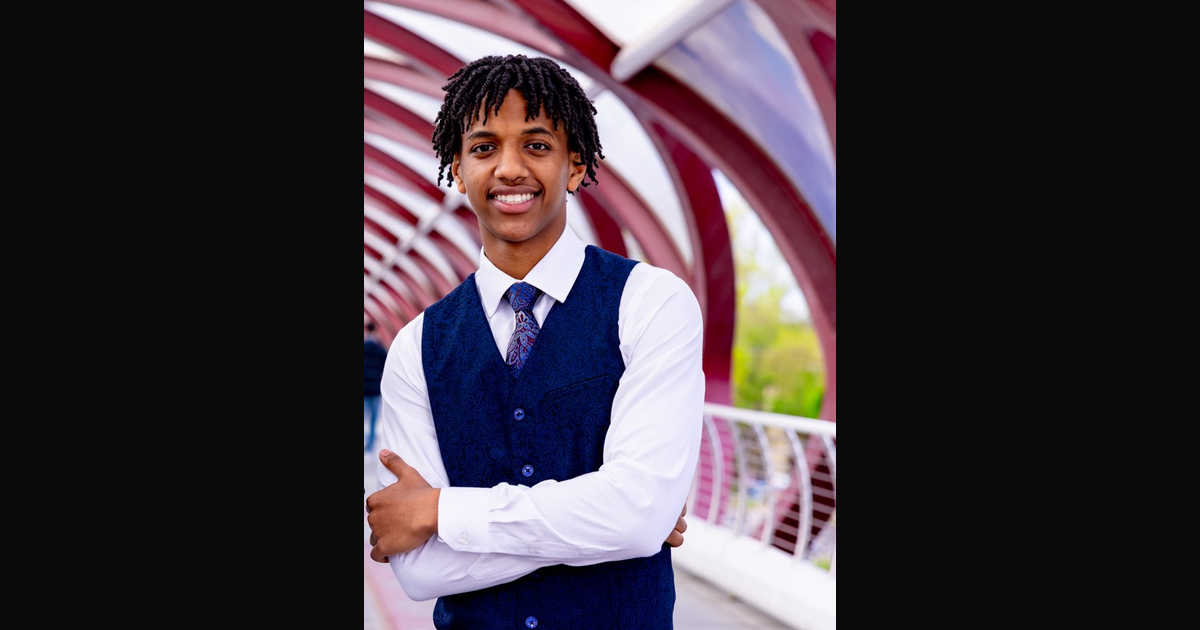
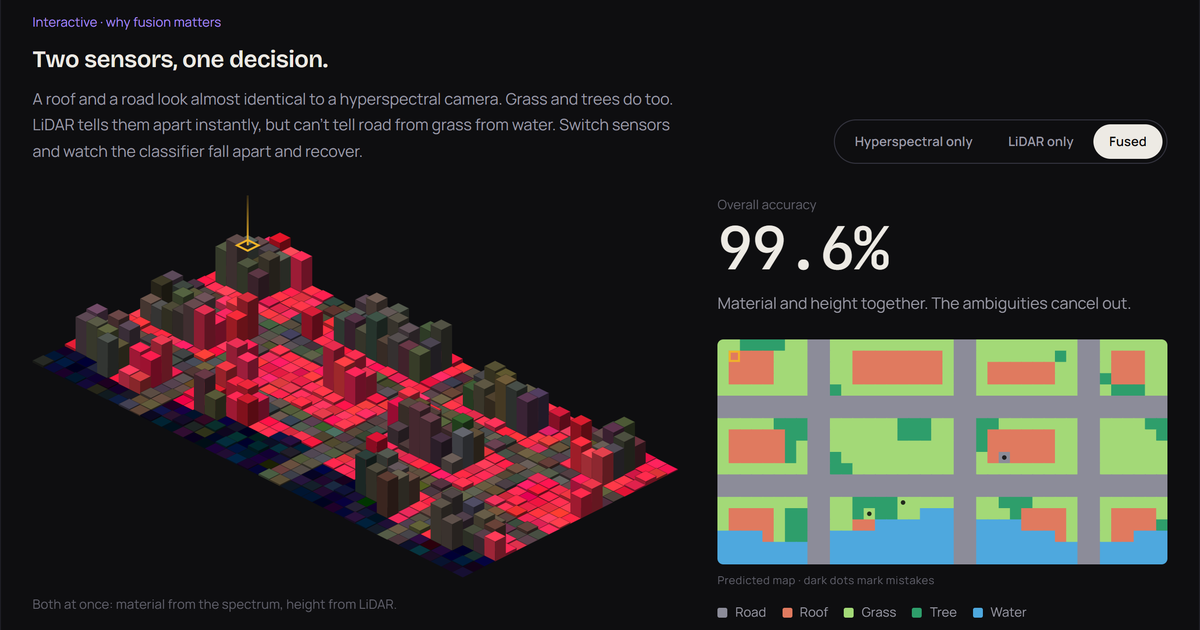
Use fusion explorer screenshot as link preview image
Replace the portrait preview with a 1200x630 screenshot of the
interactive hyperspectral + LiDAR explorer in its Fused state, and
update the og:image alt text to match.

diff --git a/app/layout.tsx b/app/layout.tsx
@@ -8,9 +8,9 @@ import SiteFooter from "@/components/layout/SiteFooter";
 const SITE_URL = "https://jacobhailemariam.github.io";
 
 /**
- * The link-preview card. The image is the homepage portrait centred on a
- * 1200×630 canvas (public/preview.png). Its URL is written out in full because
- * some scrapers ignore relative og:image paths.
+ * The link-preview card. The image is a 1200×630 screenshot of the fusion
+ * explorer in its "Fused" state (public/preview.png). Its URL is written out in
+ * full because some scrapers ignore relative og:image paths.
  */
 const PREVIEW_IMAGE = `${SITE_URL}/preview.png`;
 const PREVIEW_DESCRIPTION =
@@ -49,7 +49,7 @@ export const metadata: Metadata = {
         url: PREVIEW_IMAGE,
         width: 1200,
         height: 630,
-        alt: profile.headshot.alt,
+        alt: "Interactive isometric city classified by fusing hyperspectral and LiDAR data, at 99.6% accuracy.",
       },
     ],
   },
